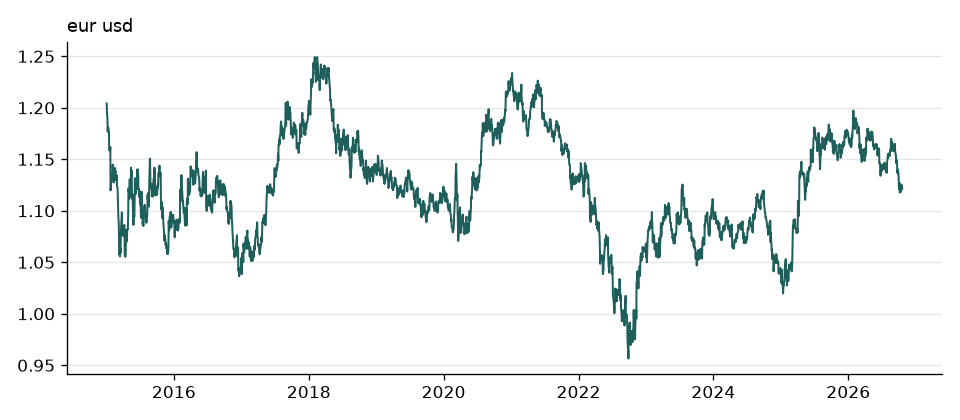
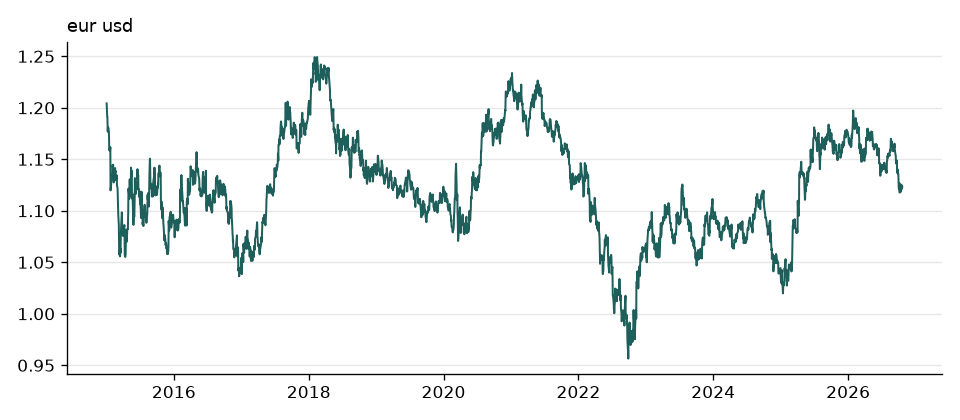
Data update 2026-10-22

diff --git a/README.md b/README.md
@@ -4,8 +4,8 @@ This data analysis tool visits major economic websites daily to download and org
 Automated ETL pipeline collecting macro and financial indicators from the
 ECB Data Portal, Eurostat, and FRED. Using GitHub Actions, this program is configured to run automatically every day without manual intervention, ensuring the latest statistics and figures are always kept up to date.
 
-**Last updated:** 2026-10-21 11:03 UTC
-**Observations stored:** 8,235
+**Last updated:** 2026-10-22 11:02 UTC
+**Observations stored:** 8,237
 
 ## Indicators
 
@@ -21,8 +21,8 @@ sides of the Atlantic.
 
 | Series | Source | Frequency | Latest date | Latest value |
 |---|---|---|---|---|
-| `ecb_policy_rate` | ecb | daily | 2026-10-21 | 2.65 |
-| `eur_usd` | ecb | daily | 2026-10-20 | 1.121 |
+| `ecb_policy_rate` | ecb | daily | 2026-10-22 | 2.65 |
+| `eur_usd` | ecb | daily | 2026-10-21 | 1.123 |
 | `hicp_euro_area` | eurostat | monthly | 2025-12-01 | 2 |
 | `unemployment_euro_area` | eurostat | monthly | 2026-08-01 | 6.4 |
 | `us_cpi` | fred | monthly | 2026-09-01 | 336.3 |
